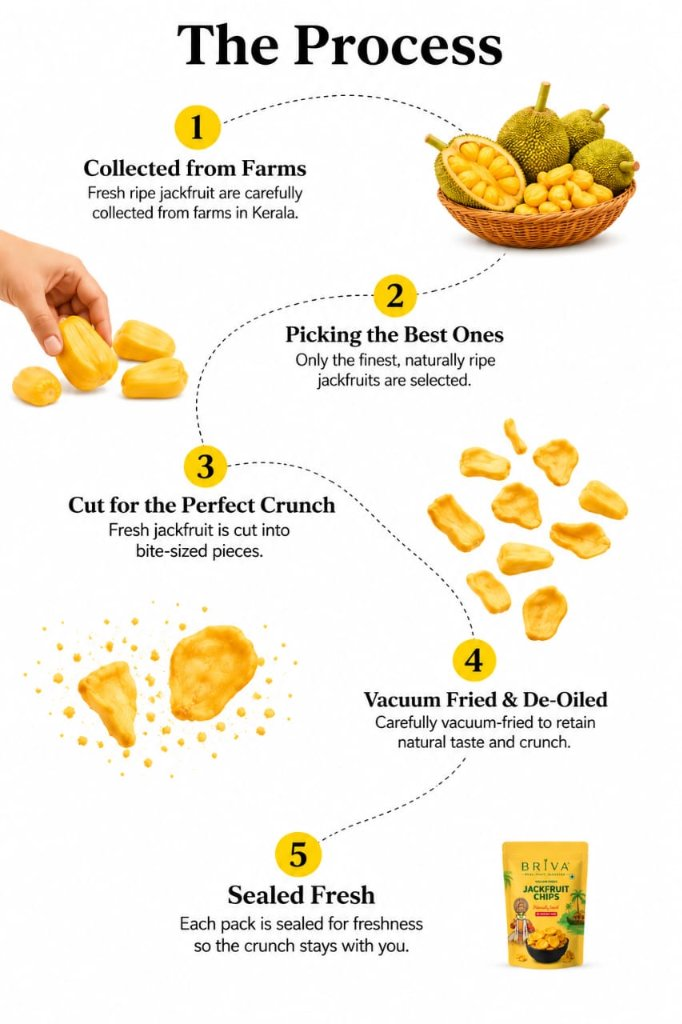
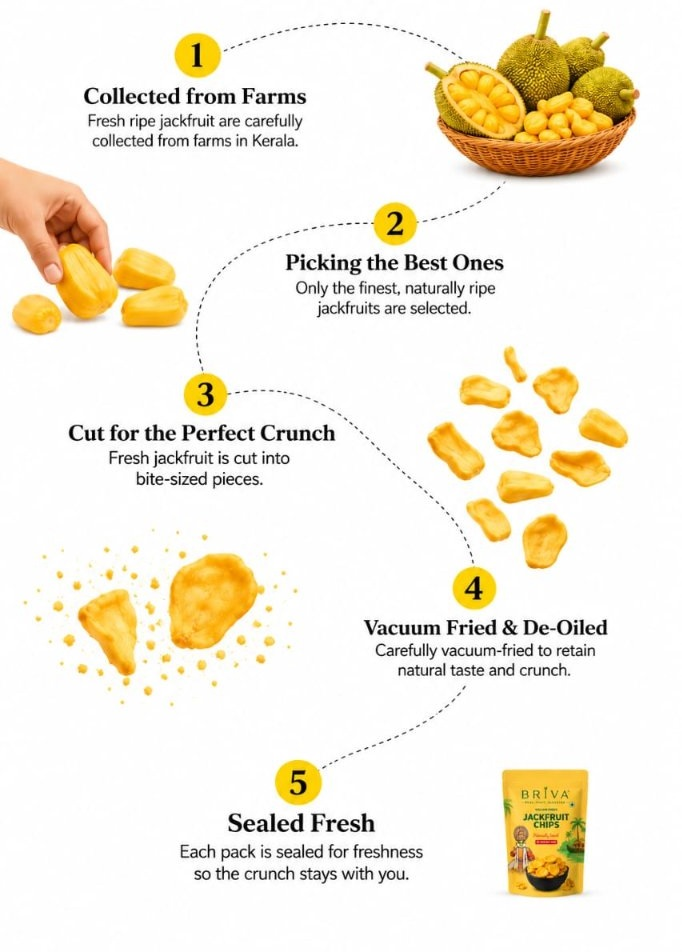
fixed process section image

diff --git a/src/components/sections/Process.tsx b/src/components/sections/Process.tsx
@@ -6,19 +6,22 @@ export function Process() {
     <section id="how" className="container-x py-20 md:py-24">
       <div className="rounded-card bg-grey px-5 py-16 md:px-12 md:py-20">
         <div className="text-center">
-          <span className="pill-label">How it&apos;s made</span>
+          <span className="pill-label bg-white shadow-xs">How it&apos;s made</span>
           <h2 className="mt-5 text-[32px] leading-tight font-bold tracking-[-0.035em] md:text-[48px]">
             The process
           </h2>
+          <p className="mx-auto mt-4 max-w-[540px] text-base text-muted md:text-lg">
+            From naturally ripe Kerala fruit to the crunch in your pouch.
+          </p>
         </div>
 
-        <Reveal className="mx-auto mt-12 max-w-[760px]">
+        <Reveal className="mx-auto mt-10 max-w-[720px] md:mt-14">
           <div className="overflow-hidden rounded-[28px] bg-white p-4 shadow-high sm:p-8 md:p-10">
             <Image
               src="/images/process.jpg"
-              alt="The Process - Briva jackfruit chips from farm to pack"
+              alt="5-step process: Collected from farms, picking the best ones, cut for crunch, vacuum fried and de-oiled, sealed fresh"
               width={682}
-              height={1024}
+              height={952}
               className="h-auto w-full object-contain"
             />
           </div>
